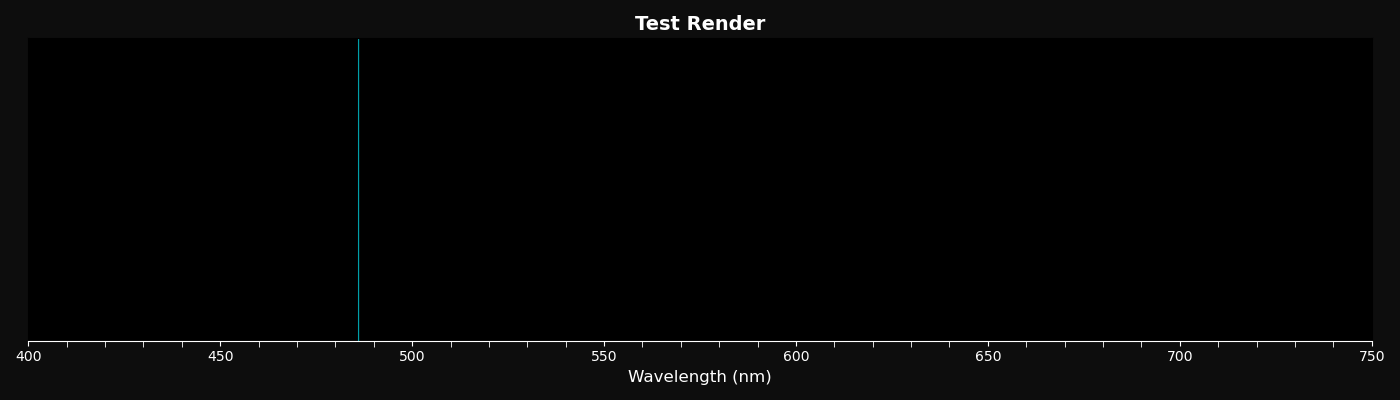
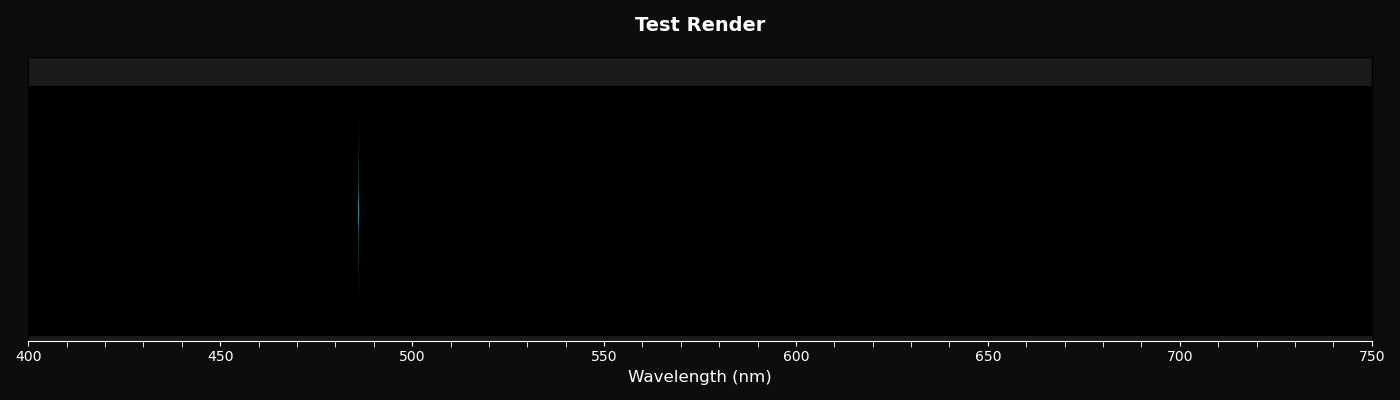
removed dupe file. created conftest.py. updated requirements

Changed region(s): [[0.0, 0.12, 0.9829, 0.24], [0.0, 0.84, 0.9829, 0.87], [0.4607, 0.03, 0.5529, 0.09]]

diff --git a/Colab Based App/tests/conftest.py b/Colab Based App/tests/conftest.py
@@ -1,0 +1,8 @@
+import sys
+from pathlib import Path
+
+# Ensure the local `Colab Based App` package root is on sys.path so
+# `import spectrum.colab_renderer` resolves to the bundled module here.
+p = Path(__file__).resolve().parents[1]
+if str(p) not in sys.path:
+    sys.path.insert(0, str(p))

diff --git a/Colab Based App/spectrum/colab_renderer.py b/Colab Based App/spectrum/colab_renderer.py
@@ -52,7 +52,7 @@ def plot_emission_spectrum_colab_style(
     needle_shape_power=4,
     glow_width_multiplier=1.5,
     glow_alpha=0.25,
-    dpi=300,
+    dpi=600,
     dark_mode=True,
     label_y=1.05,
     label_rotation=60,
